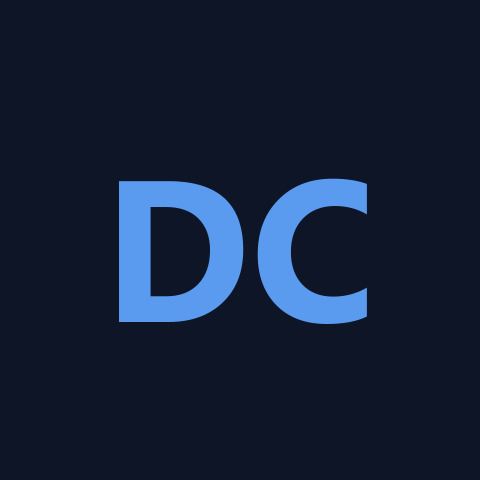
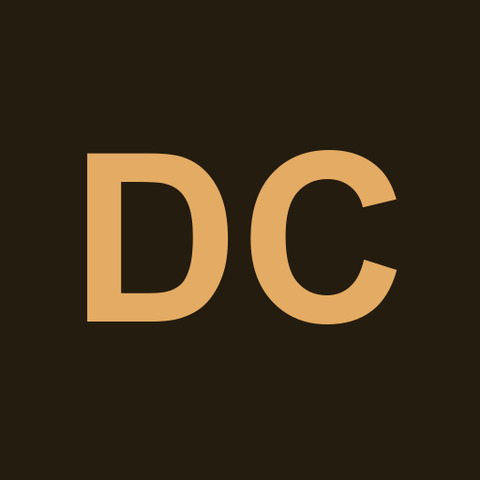
Apply "coffee & caramel" color scheme
Replace the default blue-leaning palette with a warm caramel/coffee scheme
derived from the inverted shan-shui-inf wallpaper and the matching Zebar
config: custom brand/accent/neutral ramps, warm-tinged strong text, recolored
avatar and favicon, and a matching OG share card.

Claude-Session: https://claude.ai/code/session_013BNu464eJemCLvLuACiUpE

Changed region(s): [[0.1562, 0.2812, 0.8438, 0.6875]]

diff --git a/src/resources/custom.css b/src/resources/custom.css
@@ -1,69 +1,63 @@
-/* :root {
-  /*
-  /* Override default variables here */
-/*
-  --font-size-display-multiplier:   1;
-  --font-size-heading-multiplier:   1;
-  --font-size-body-multiplier:      1;
-  --font-size-label-multiplier:     1;
+/* Custom "coffee & caramel" scheme, derived from the inverted shan-shui-inf
+   wallpaper and the matching Zebar config (sakyasumedh.aurora):
+     brand/accent seed  #d9a05b / #f0c48a  (caramel)
+     neutral seed       #a89878            (warm tan -> coffee ramp)
+   Generated with Once UI's customSchemeProperties(); the config sets
+   brand/accent/neutral to "custom" so data-*="custom" reads these. */
+:root {
+  --scheme-brand-100: oklch(0.1373 0.0314 70.03);
+  --scheme-brand-200: oklch(0.1980 0.0437 70.03);
+  --scheme-brand-300: oklch(0.3727 0.0809 70.03);
+  --scheme-brand-400: oklch(0.4695 0.1018 70.03);
+  --scheme-brand-500: oklch(0.5649 0.1097 70.03);
+  --scheme-brand-600: oklch(0.6747 0.1097 70.03);
+  --scheme-brand-700: oklch(0.7713 0.1097 70.03);
+  --scheme-brand-800: oklch(0.8706 0.0999 70.03);
+  --scheme-brand-900: oklch(0.9112 0.0667 70.03);
+  --scheme-brand-1000: oklch(0.9486 0.0377 70.03);
+  --scheme-brand-1100: oklch(0.9663 0.0244 70.03);
+  --scheme-brand-1200: oklch(0.9834 0.0119 70.03);
+  --scheme-brand-600-15: oklch(0.6747 0.1097 70.03 / 0.15);
+  --scheme-brand-600-30: oklch(0.6747 0.1097 70.03 / 0.3);
+  --scheme-brand-600-50: oklch(0.6747 0.1097 70.03 / 0.5);
+  --scheme-accent-100: oklch(0.1370 0.0307 73.79);
+  --scheme-accent-200: oklch(0.1976 0.0427 73.79);
+  --scheme-accent-300: oklch(0.3719 0.0791 73.79);
+  --scheme-accent-400: oklch(0.4680 0.0898 73.79);
+  --scheme-accent-500: oklch(0.5629 0.0898 73.79);
+  --scheme-accent-600: oklch(0.6728 0.0898 73.79);
+  --scheme-accent-700: oklch(0.7695 0.0898 73.79);
+  --scheme-accent-800: oklch(0.8693 0.0898 73.79);
+  --scheme-accent-900: oklch(0.9109 0.0721 73.79);
+  --scheme-accent-1000: oklch(0.9484 0.0408 73.79);
+  --scheme-accent-1100: oklch(0.9662 0.0265 73.79);
+  --scheme-accent-1200: oklch(0.9834 0.0129 73.79);
+  --scheme-accent-600-15: oklch(0.6728 0.0898 73.79 / 0.15);
+  --scheme-accent-600-30: oklch(0.6728 0.0898 73.79 / 0.3);
+  --scheme-accent-600-50: oklch(0.6728 0.0898 73.79 / 0.5);
+  --scheme-neutral-100: oklch(0.1363 0.0296 84.46);
+  --scheme-neutral-200: oklch(0.1966 0.0411 84.46);
+  --scheme-neutral-300: oklch(0.3691 0.0485 84.46);
+  --scheme-neutral-400: oklch(0.4647 0.0485 84.46);
+  --scheme-neutral-500: oklch(0.5598 0.0485 84.46);
+  --scheme-neutral-600: oklch(0.6698 0.0485 84.46);
+  --scheme-neutral-700: oklch(0.7666 0.0485 84.46);
+  --scheme-neutral-800: oklch(0.8665 0.0485 84.46);
+  --scheme-neutral-900: oklch(0.9088 0.0485 84.46);
+  --scheme-neutral-1000: oklch(0.9475 0.0485 84.46);
+  --scheme-neutral-1100: oklch(0.9656 0.0357 84.46);
+  --scheme-neutral-1200: oklch(0.9831 0.0175 84.46);
+  --scheme-neutral-600-15: oklch(0.6698 0.0485 84.46 / 0.15);
+  --scheme-neutral-600-30: oklch(0.6698 0.0485 84.46 / 0.3);
+  --scheme-neutral-600-50: oklch(0.6698 0.0485 84.46 / 0.5);
+}
 
-  --line-height-display-multiplier: 1;
-  --line-height-heading-multiplier: 1;
-  --line-height-body-multiplier:    1;
-  --line-height-label-multiplier:   1;
-
-  --default-border:        var(--neutral-border-medium);
-
-  /*
-  /* Example setup for custom colors */
-/* Generate at: https://once-ui.com/customize */
-/*
-  --scheme-brand-100: #08002f;
-  --scheme-brand-200:  #04025c;
-  --scheme-brand-300:  #1f398e;
-  --scheme-brand-400:  #3856ae;
-  --scheme-brand-500:  #5071cc;
-  --scheme-brand-600:  #6f94f1;
-  --scheme-brand-700:  #8db3ff;
-  --scheme-brand-800:  #b2dbff;
-  --scheme-brand-900:  #bfe8ff;
-  --scheme-brand-1000: #ccf6ff;
-  --scheme-brand-1100: #d2fcff;
-  --scheme-brand-1200: #d2fcff;
-  --scheme-brand-600-10: rgba(111,148,241,0.1);
-  --scheme-brand-600-30: rgba(111,148,241,0.3);
-  --scheme-brand-600-50: rgba(111,148,241,0.5);
-
-  --scheme-accent-100:  #030b10;
-  --scheme-accent-200:  #0d181d;
-  --scheme-accent-300:  #364248;
-  --scheme-accent-400:  #505d64;
-  --scheme-accent-500:  #69777e;
-  --scheme-accent-600:  #8a989f;
-  --scheme-accent-700:  #a8b7bf;
-  --scheme-accent-800:  #c8d7df;
-  --scheme-accent-900:  #d5e4ec;
-  --scheme-accent-1000: #e2f1f9;
-  --scheme-accent-1100: #e9f8ff;
-  --scheme-accent-1200: #efffff;
-  --scheme-accent-600-10: rgba(138,152,159,0.1);
-  --scheme-accent-600-30: rgba(138,152,159,0.3);
-  --scheme-accent-600-50: rgba(138,152,159,0.5);
-
-  --scheme-neutral-100:  #020b10;
-  --scheme-neutral-200:  #0b181d;
-  --scheme-neutral-300:  #344248;
-  --scheme-neutral-400:  #4f5d64;
-  --scheme-neutral-500:  #68777e;
-  --scheme-neutral-600:  #89989f;
-  --scheme-neutral-700:  #a7b7be;
-  --scheme-neutral-800:  #c7d7df;
-  --scheme-neutral-900:  #d4e4ec;
-  --scheme-neutral-1000: #e1f2f9;
-  --scheme-neutral-1100: #e7f8ff;
-  --scheme-neutral-1200: #eeffff;
-  --scheme-neutral-600-10: rgba(137,152,159,0.1);
-  --scheme-neutral-600-30: rgba(137,152,159,0.3);
-  --scheme-neutral-600-50: rgba(137,152,159,0.5);
-  /*
-}*/
+/* Tinge the strongest foreground (headings, strong text, nav) with the warm
+   accent instead of pure white / pure black. Cream (#f0e6d2) matches the Zebar
+   --text; espresso (#2a2114) is its light-mode counterpart. */
+:root[data-theme="dark"] {
+  --neutral-on-background-strong: #f0e6d2;
+}
+:root[data-theme="light"] {
+  --neutral-on-background-strong: #2a2114;
+}

diff --git a/src/resources/once-ui.config.ts b/src/resources/once-ui.config.ts
@@ -72,9 +72,9 @@ const fonts: FontsConfig = {
 // default customization applied to the HTML in the main layout.tsx
 const style: StyleConfig = {
   theme: "dark", // dark | light | system
-  neutral: "slate", // sand | gray | slate | mint | rose | dusk | custom
-  brand: "blue", // blue | indigo | violet | magenta | pink | red | orange | yellow | moss | green | emerald | aqua | cyan | custom
-  accent: "cyan", // blue | indigo | violet | magenta | pink | red | orange | yellow | moss | green | emerald | aqua | cyan | custom
+  neutral: "custom", // sand | gray | slate | mint | rose | dusk | custom (see custom.css)
+  brand: "custom", // caramel #d9a05b — ramp in custom.css
+  accent: "custom", // lighter caramel #f0c48a — ramp in custom.css
   solid: "contrast", // color | contrast
   solidStyle: "flat", // flat | plastic
   border: "rounded", // rounded | playful | conservative | sharp

diff --git a/src/app/api/og/generate/route.tsx b/src/app/api/og/generate/route.tsx
@@ -29,7 +29,7 @@ export async function GET(request: Request) {
         width: "100%",
         height: "100%",
         padding: "6rem",
-        background: "#151515",
+        background: "#241c0e",
       }}
     >
       <div
@@ -39,7 +39,7 @@ export async function GET(request: Request) {
           justifyContent: "center",
           gap: "4rem",
           fontStyle: "normal",
-          color: "white",
+          color: "#f0e6d2",
         }}
       >
         <span
@@ -94,7 +94,8 @@ export async function GET(request: Request) {
                 lineHeight: "2.5rem",
                 whiteSpace: "pre-wrap",
                 textWrap: "balance",
-                opacity: "0.6",
+                color: "#d9a05b",
+                opacity: "0.9",
               }}
             >
               {person.role}
